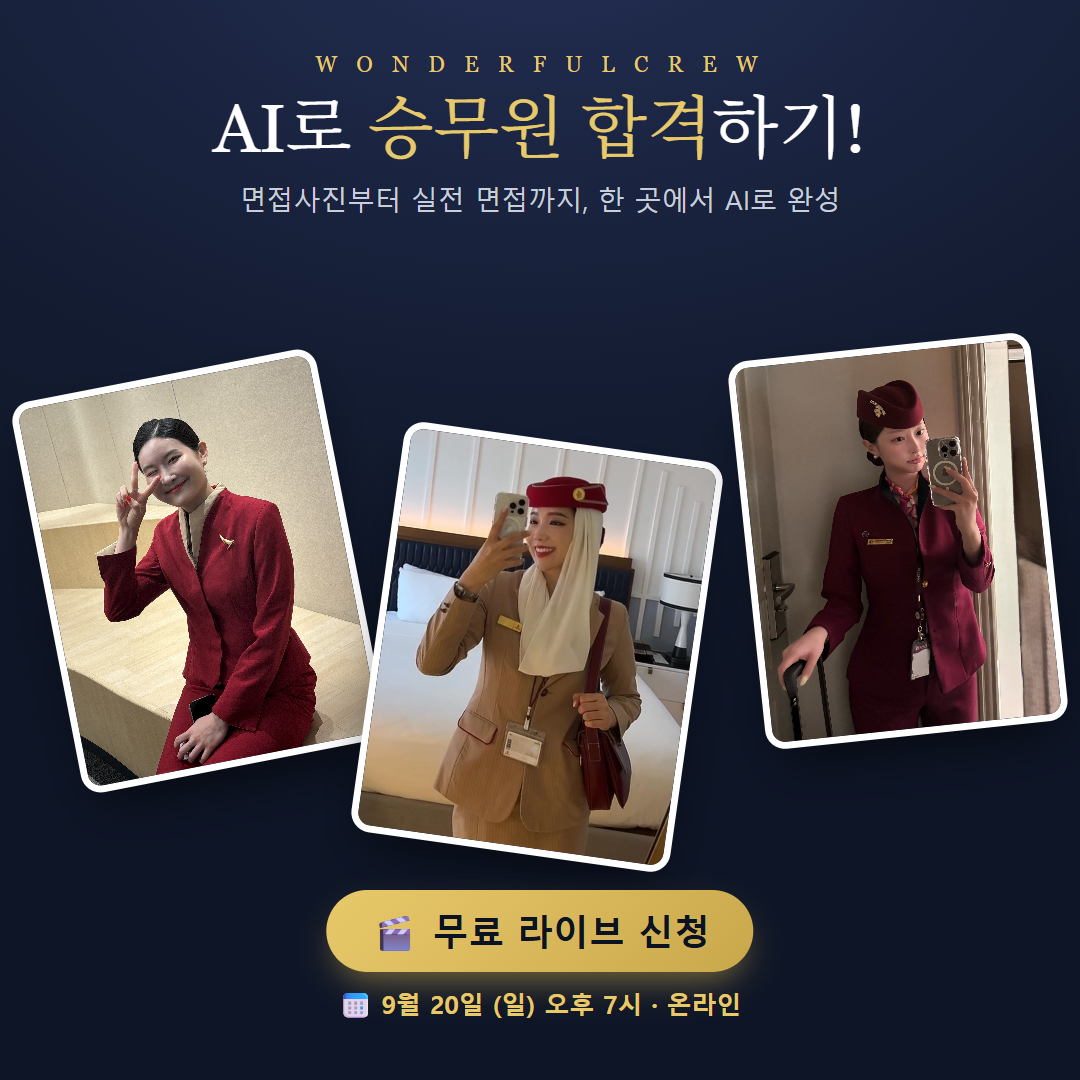
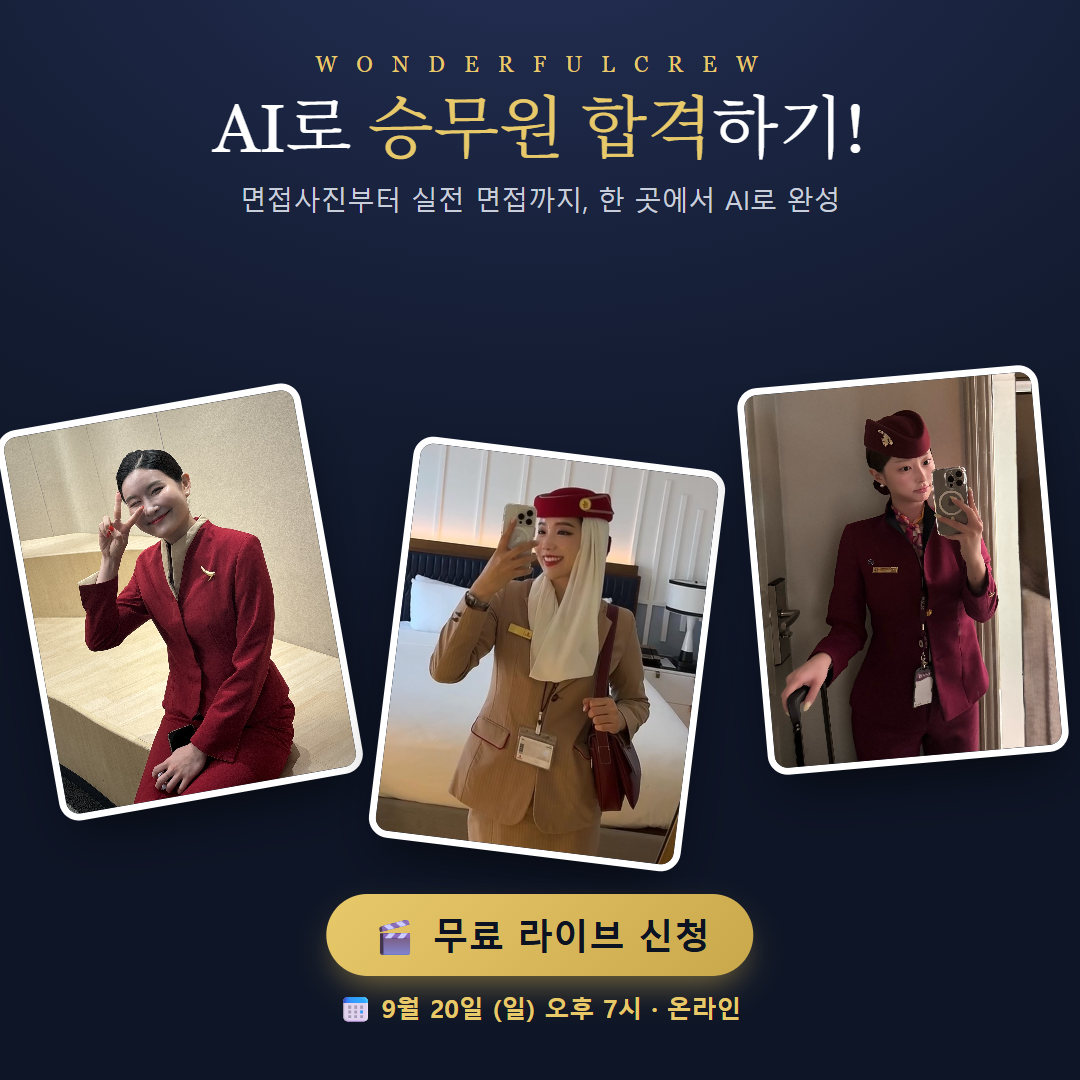
히어로·인스타1: 승무원 3명 안 겹치게 간격 벌려 배치(셋 다 온전히 보임, 높낮이·기울기 자유)

Changed region(s): [[0.0, 0.3056, 1.0, 0.9472]]

diff --git a/landing.html b/landing.html
@@ -42,14 +42,14 @@ nav{position:sticky;top:0;z-index:50;display:flex;align-items:center;justify-con
 .hero h1 em{font-style:normal;color:#0E9E96;}
 .hero p{font-family:'Noto Sans KR',sans-serif;color:var(--muted);font-size:1.05rem;line-height:1.85;max-width:600px;margin:0 auto 24px;}
 .hero-cta{display:inline-flex;align-items:center;gap:9px;padding:14px 32px;border-radius:26px;background:linear-gradient(135deg,var(--gold-l),var(--gold));color:#fff;font-family:'Noto Sans KR',sans-serif;font-size:0.98rem;font-weight:700;}
-.hero-crew{position:relative;width:min(540px,94vw);height:360px;margin:26px auto 0;}
+.hero-crew{position:relative;width:min(600px,96vw);height:300px;margin:26px auto 0;}
 .hc-card{position:absolute;border-radius:16px;overflow:hidden;border:5px solid #fff;box-shadow:0 22px 46px -14px rgba(26,35,64,.55);background:#0B1222;}
 .hc-card img{width:100%;height:100%;object-fit:cover;object-position:center 15%;display:block;}
-.hc-a{width:194px;height:256px;left:2%;top:22px;transform:rotate(-11deg);z-index:2;}
-.hc-b{width:206px;height:270px;left:40%;top:88px;transform:rotate(8deg);z-index:3;}
-.hc-c{width:184px;height:242px;right:0;top:8px;transform:rotate(-6deg);z-index:4;}
-@media(max-width:600px){.hero-crew{height:250px;}
-  .hc-a{width:130px;height:172px;top:20px;} .hc-b{width:140px;height:184px;top:66px;} .hc-c{width:124px;height:164px;top:6px;}}
+.hc-a{width:176px;height:234px;left:0;top:42px;transform:rotate(-10deg);}
+.hc-b{width:190px;height:250px;left:50%;top:4px;transform:translateX(-50%) rotate(7deg);}
+.hc-c{width:170px;height:226px;right:0;top:30px;transform:rotate(-5deg);}
+@media(max-width:600px){.hero-crew{height:210px;}
+  .hc-a{width:118px;height:157px;top:34px;} .hc-b{width:128px;height:170px;} .hc-c{width:114px;height:152px;top:24px;}}
 
 .section-title{text-align:center;padding:46px 22px 4px;}
 .section-title .eyebrow{font-family:'DM Serif Display',serif;letter-spacing:0.24em;font-size:0.7rem;color:var(--gold);text-transform:uppercase;}
